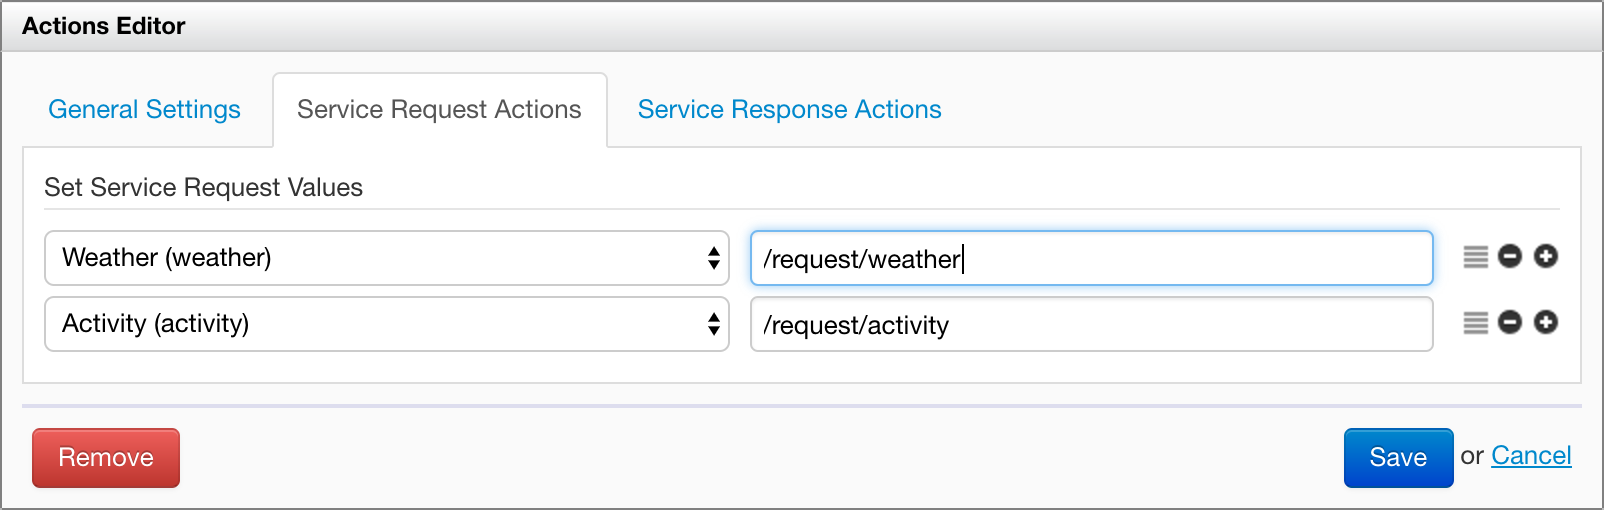
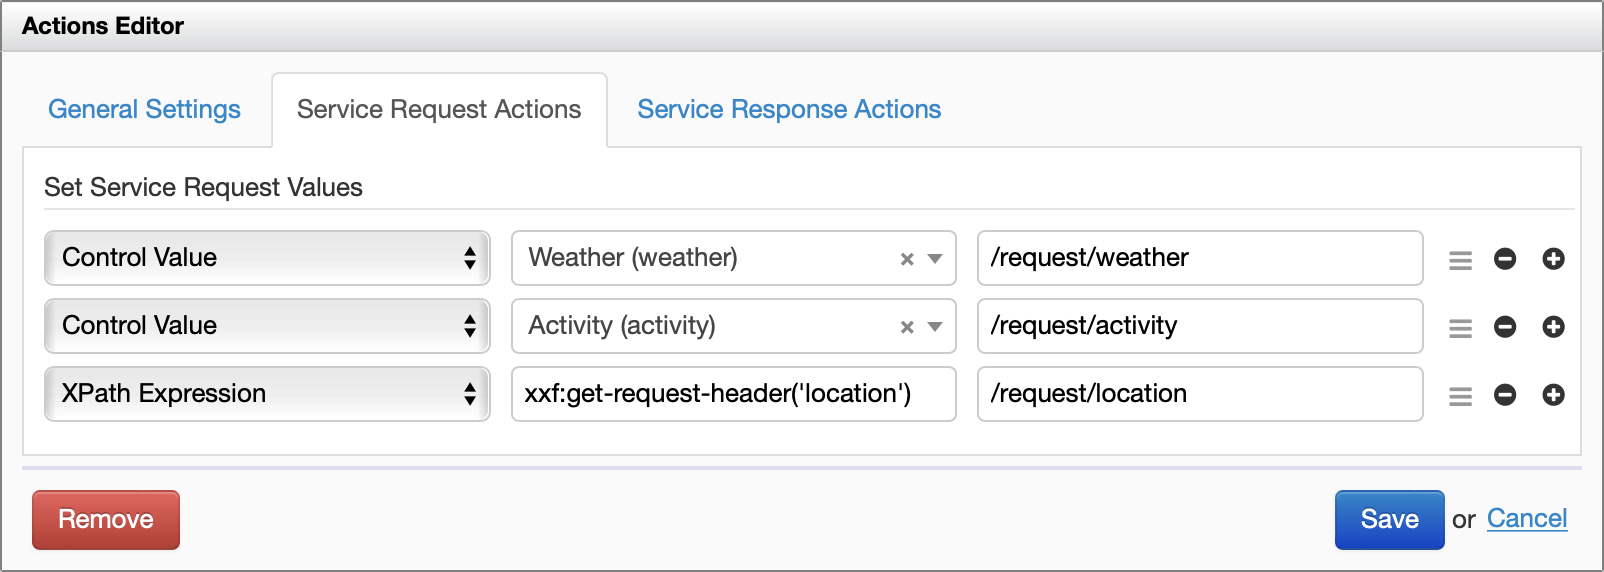
Support for request value formula

diff --git a/form-builder/actions.md b/form-builder/actions.md
@@ -92,53 +92,24 @@ Like for services, once your action is defined, the Save buttons saves it to the
 
 ## Handling the service request
 
-### Passing parameters to the service's XML request
-
-#### With HTTP services
-
-Use "Set Service Request Values".
+Each row instructs the action to take value and pass it to the service, and you can add as many such rows as needed using the "+" button, and remove existing entries with the dropdown menu.
 
 ![Actions Editor Service Request Actions](images/actions-request.png)
 
-Each row instructs the action to take the value of a form control and store it into the body of the XML service request.
+- The value can come from
+    - A control value, which you select in the dropdown. If the control is repeated, because it occurs in a repeated grid or repeated section, then the value of the first "instance" of that control is used and passed to the service.
+    - [SINCE Orbeon Forms 2021.1] Selecting "Formula" in the first column's dropdown, and enter your formula in the text field showing the second column.
+- How the value is provided to the service
+    - With HTTP services doing POST – The XPath expression, which must point to an element or attribute node of the request body defined in the HTTP service under "XML Request Body".
+    - With HTTP services doing GET or DELETE – The HTTP Service Editor [allows you to define URL parameters](http-services.md#url-parameters)  when using the `GET` and `DELETE` HTTP methods. In this case, the HTTP Service Editor implicitly creates an XML document representing these parameters, as in the following example. The Actions Editor doesn't yet support specifying URL parameters directly by name in this case. Instead, you use XPath expressions under "Set Service Request Values", like `//userId` or `//userName`.
 
-- __Source Control.__ See the [relevant section below](#source-control).
-- __Destination XPath Expression.__ The XPath expression, which must point to an element or attribute node of the request body defined in the HTTP service under "XML Request Body".
-
-You can add as many such rows as you want using the "+" button, and remove existing entries with the dropdown menu.
-
-##### Passing URL parameters to GET and DELETE methods
-
-[SINCE Orbeon Forms 2016.1]
-
-The HTTP Service Editor [allows you to define URL parameters](http-services.md#url-parameters)  when using the `GET` and `DELETE` HTTP methods. In this case, the HTTP Service Editor implicitly creates an XML document representing these parameters, for example:  
-
-```xml
-<params>
-    <userId>1</userId>
-    <userName>test</userName>
-</params>
-```
-
-The Actions Editor doesn't yet support specifying URL parameters directly by name in this case. Instead, you use XPath expressions under "Set Service Request Values". For example:
-
-- to set the `userId` parameter: `/*/userId`
-- to set the `userName` parameter: `/*/userName`
-
-#### With Database services
-
-Use "Set Database Service Parameters".
-
-Each row instructs the action to take the value of a control and set that value as the Nth query parameter of the database service.
-
-- __Source Control.__ See the [relevant section below](#source-control).
-- __Parameter Number.__ To set the first query parameter, use the value "1" (without the quotes), the second, "2", etc.
-
-You can add as many such rows as you want using the "+" button, and remove existing entries with the dropdown menu.
-
-#### Source control
-
-Specifies the control whose value must be used. If the control is repeated, because it occurs in a repeated grid or repeated section, then the value of the first "instance" of that control is used and passed to the service.
+    ```xml
+    <params>
+        <userId>1</userId>
+        <userName>test</userName>
+    </params>
+    ```
+    - With Database services – To set the first query parameter, use the value "1" (without the quotes), the second, "2", etc.
 
 ## Handling the service response
 
